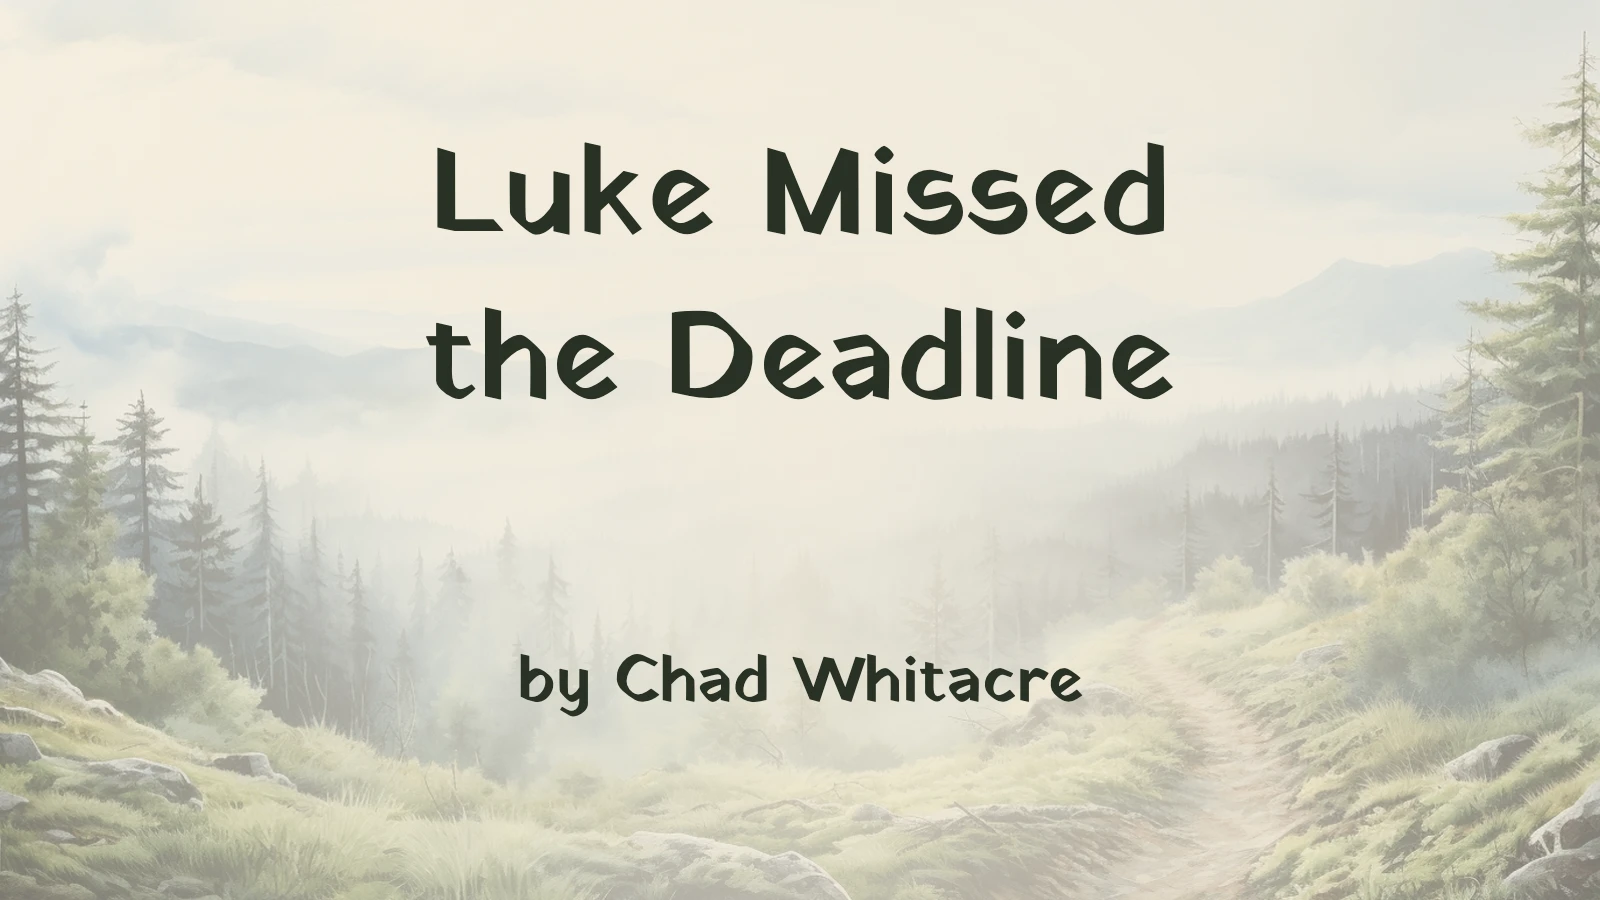
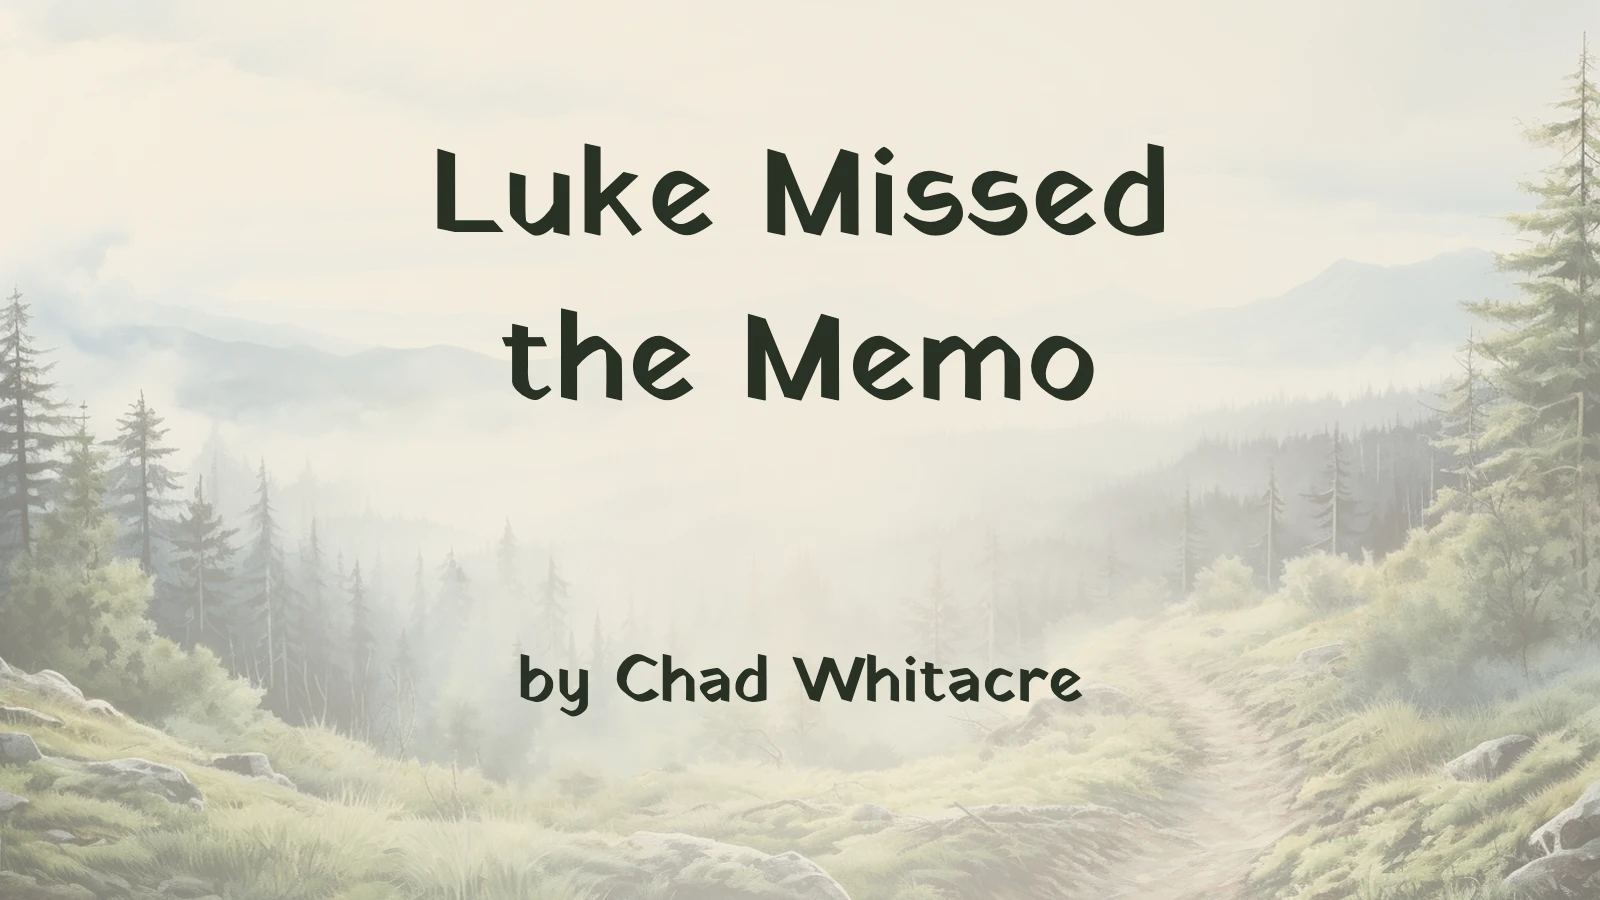
Quick! Better title

diff --git a/_posts/2025-02-25-luke-missed-the-memo.md b/_posts/2025-02-25-luke-missed-the-memo.md
@@ -1,5 +1,5 @@
 ---
-title: Luke Missed the Deadline
+title: Luke Missed the Memo
 excerpt: The OSI is not being arbitrary and capricious.
 ---
 
